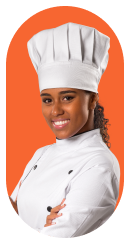
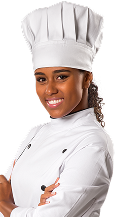
created and styled chef's section

diff --git a/styles/style.css b/styles/style.css
@@ -193,7 +193,9 @@ main .card-container .card:hover {
   border-radius: 50%;
   padding: 12px;
   position: relative;
-  top: 12px;
+  top: 40px;
+  left: 12px;
+  background-color: white;
 }
 .recipes .card-container .card .texts h2{
   padding: 22px;
@@ -214,3 +216,54 @@ main .card-container .card:hover {
   font-family: Plus Jakarta Sans;
   font-size: 14px;
 }
+
+/* Recipes  */
+/* Our chefs */
+.our-chefs{
+  margin-top: 22px;
+  padding: 12px 8px;
+}
+.our-chefs h1{
+  color: #101828;
+  font-family: Plus Jakarta Sans;
+  font-size: 28px;
+  font-weight: 400;
+  margin-left: 60px;
+}
+.our-chefs .card-container{
+  display: flex;
+  justify-content: space-evenly;
+  align-items: center;
+}
+.our-chefs .card-container .card img{
+  width: 80px;
+  background-color: #EAECF0;
+  padding: 20px 10px;
+  border-radius: 50px;
+  border: 3px solid #fff;
+  position: relative;
+  top: 80px;
+  left: 160px;
+}
+.our-chefs .card-container .card .texts{
+background-color: #EAECF0;
+width: 260px;
+padding: 6px 18px;
+border-radius: 10px;
+}
+.our-chefs .card-container .card .texts h4{
+  font-family: Plus Jakarta Sans;
+  color: #101828;
+}
+.our-chefs .card-container .card texts p{
+  font-family: Manrope;
+  color: #475467;
+}
+.our-chefs .card-container .card:hover img{
+  background-color: #F76631;
+}
+.our-chefs .card-container .card:hover .texts{
+  background-color: #FEF0EA;
+}
+
+/* Our chefs  */

diff --git a/index.html b/index.html
@@ -127,5 +127,31 @@
         </div>
       </div>
     </section>
+    <section class="our-chefs">
+      <h1>Our Chefs</h1>
+      <div class="card-container">
+        <div class="card">
+          <img src="images/chef1.png" alt="chef" />
+          <div class="texts">
+            <h4>Edward I. Phillips</h4>
+            <p>Chef, DENEAT</p>
+          </div>
+        </div>
+        <div class="card">
+          <img src="images/chef2.png" alt="chef" />
+          <div class="texts">
+            <h4>Kathryn Murphy</h4>
+            <p>Chef, PANPEE</p>
+          </div>
+        </div>
+        <div class="card">
+          <img src="images/chef3.png" alt="chef" />
+          <div class="texts">
+            <h4>Marvin McKiney</h4>
+            <p>Chef, LEFEED</p>
+          </div>
+        </div>
+      </div>
+    </section>
   </body>
 </html>
